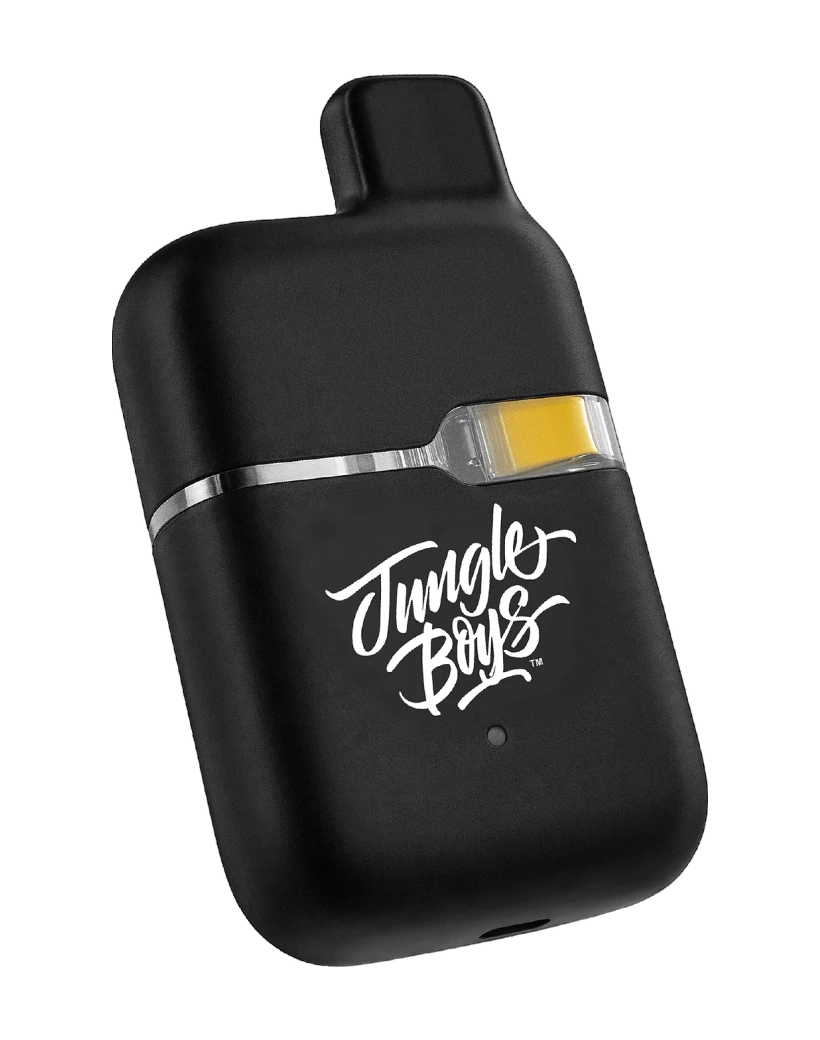
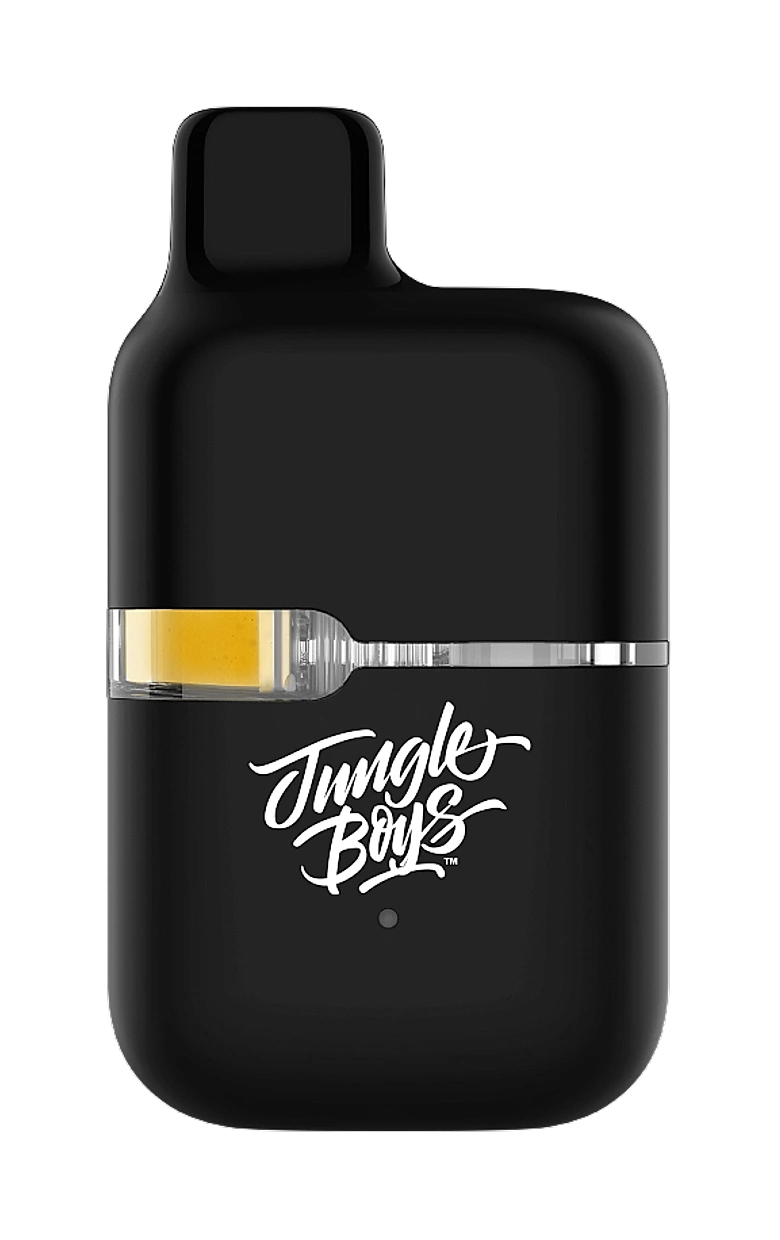
Gas Tank hero: rebuild the device trio from the straight-on Figma masters
The three devices read as unrelated products because the page was built on the
three-quarter product shots — flavors was shot at -24 degrees, resin at +11,
rosin at -5, each from a different camera position. Normalising size last round
fixed the scale but not the perspective, which is the part the eye reads.

Swept the Figma file's raw image fills and found a matched straight-on set that
was never used: 'Flavors Gas Tank 3' (3b0acec9), 'Live Resin Gas Tank 3'
(5f46c7a6) and 'magnific__background__2235' (736b79aa). All three are dead-on
front renders at the same framing — solid-pixel aspect 0.548 / 0.548 / 0.542.

Rebuilt device-{tier}-n.webp from those masters in one pass from the raw file
(no re-cut of an already-compressed derivative): crop to solid pixels, scale to
one shared 560px body width, centre on one shared 780x1240 canvas.

Measurement note: magnific carries a wide soft halo, so an alpha>60 body-width
probe read it as 2661px and scaled the device to roughly half the others. The
probe now measures solid pixels only (alpha>240), which gives 1514px and the
correct scale. Any future device art needs the same treatment.

Hero devices are no longer rotated — these are dead-on renders and any tilt
brings the mismatch straight back.

Verified headless at 1440x900 and 390x844.

Changed region(s): [[0.1231, 0.0615, 0.8615, 0.9538]]

diff --git a/components/products/gas-tank/gt-hero.tsx b/components/products/gas-tank/gt-hero.tsx
@@ -25,10 +25,13 @@ gsap.registerPlugin(ScrollTrigger)
 // Nothing here is an image or a video — the fire is simulated per frame in
 // gt-fire.tsx, which is why it can react to scroll at all.
 //
-// The devices use the `-n` (normalised) art: the three product shots were taken
-// at different angles, so equal CSS size made them look like three different
-// products. The -n files place every device on one shared canvas at one shared
-// body width, so equal width here = evenly matched trio.
+// The devices use the `-n` (normalised) art, rebuilt from the STRAIGHT-ON
+// masters in Figma (flavors-3 / magnific / resin-3) rather than the angled
+// three-quarter shots the page shipped with — those read as three unrelated
+// products no matter how they were sized. Each is cropped to its solid pixels,
+// scaled to one shared body width and centred on one shared canvas, so equal
+// width here gives a genuinely matched trio. They are NOT rotated: these are
+// dead-on renders and any tilt brings the mismatch straight back.
 
 const SPECS = [
   { icon: 'palm', label: 'Palm sized\nand discreet' },
@@ -93,8 +96,8 @@ export default function GtHero() {
             { yPercent: 58, scale: 0.62, opacity: 0 },
             { yPercent: 0, scale: 1, opacity: 1, ease: 'power2.out', duration: 0.5 }, 0.14)
             // they open into a symmetric fan — mirrored, so the trio stays even
-            .to('[data-dev="l"]', { xPercent: -15, rotate: -11, ease: 'power1.out', duration: 0.22 }, 0.6)
-            .to('[data-dev="r"]', { xPercent: 15, rotate: 11, ease: 'power1.out', duration: 0.22 }, 0.6)
+            .to('[data-dev="l"]', { xPercent: -13, ease: 'power1.out', duration: 0.22 }, 0.6)
+            .to('[data-dev="r"]', { xPercent: 13, ease: 'power1.out', duration: 0.22 }, 0.6)
             .to('[data-dev="c"]', { yPercent: -4, ease: 'power1.out', duration: 0.22 }, 0.6)
             // …then the camera pulls back off them too
             .to('[data-rig]', { scale: 0.88, yPercent: -4, ease: 'power2.in', duration: 0.18 }, 0.82)
@@ -159,13 +162,13 @@ export default function GtHero() {
         {/* the three tiers, rising out of the bed — equal width = equal device */}
         <div data-rig className="absolute inset-x-0 bottom-[7%] z-10 opacity-0 will-change-transform">
           <div className="relative mx-auto w-full max-w-[1120px] px-4">
-            <div className="relative mx-auto aspect-[820/1040] w-[41%]">
+            <div className="relative mx-auto aspect-[780/1240] w-[33%]">
               {/* eslint-disable-next-line @next/next/no-img-element -- product art */}
               <img data-dev="l" src="/products/gas-tank/device-flavors-n.webp" alt="Gas Tank Flavors"
-                className="absolute inset-y-0 left-[-72%] w-full origin-bottom -rotate-[6deg] will-change-transform drop-shadow-[0_30px_60px_rgba(0,0,0,0.7)]" />
+                className="absolute inset-y-0 left-[-77%] w-full origin-bottom will-change-transform drop-shadow-[0_30px_60px_rgba(0,0,0,0.7)]" />
               {/* eslint-disable-next-line @next/next/no-img-element -- product art */}
               <img data-dev="r" src="/products/gas-tank/device-resin-n.webp" alt="Gas Tank Live Resin"
-                className="absolute inset-y-0 left-[72%] w-full origin-bottom rotate-[6deg] will-change-transform drop-shadow-[0_30px_60px_rgba(0,0,0,0.7)]" />
+                className="absolute inset-y-0 left-[77%] w-full origin-bottom will-change-transform drop-shadow-[0_30px_60px_rgba(0,0,0,0.7)]" />
               {/* eslint-disable-next-line @next/next/no-img-element -- product art */}
               <img data-dev="c" src="/products/gas-tank/device-rosin-n.webp" alt="Gas Tank Live Rosin"
                 className="absolute inset-0 z-10 w-full will-change-transform drop-shadow-[0_44px_80px_rgba(0,0,0,0.8)]" />
